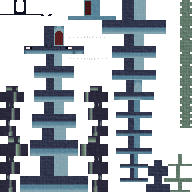
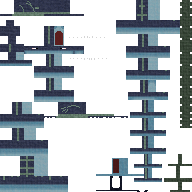
Cetus with less succ

diff --git a/assets/prepared/mobs/icaria_cetus.java b/assets/prepared/mobs/icaria_cetus.java
@@ -1,5 +1,5 @@
-// Made with Blockbench 4.5.2
-// Exported for Minecraft version 1.17 - 1.18 with Mojang mappings
+// Made with Blockbench 4.6.0
+// Exported for Minecraft version 1.17 or later with Mojang mappings
 // Paste this class into your mod and generate all required imports
 
 
@@ -8,17 +8,17 @@ public class icaria_cetus<T extends Entity> extends EntityModel<T> {
 	public static final ModelLayerLocation LAYER_LOCATION = new ModelLayerLocation(new ResourceLocation("modid", "icaria_cetus"), "main");
 	private final ModelPart bone;
 	private final ModelPart bone12;
-	private final ModelPart bone17;
-	private final ModelPart bone18;
 	private final ModelPart bone23;
+	private final ModelPart bone18;
+	private final ModelPart bone19;
 	private final ModelPart bb_main;
 
 	public icaria_cetus(ModelPart root) {
 		this.bone = root.getChild("bone");
 		this.bone12 = root.getChild("bone12");
-		this.bone17 = root.getChild("bone17");
-		this.bone18 = root.getChild("bone18");
 		this.bone23 = root.getChild("bone23");
+		this.bone18 = root.getChild("bone18");
+		this.bone19 = root.getChild("bone19");
 		this.bb_main = root.getChild("bb_main");
 	}
 
@@ -26,7 +26,7 @@ public class icaria_cetus<T extends Entity> extends EntityModel<T> {
 		MeshDefinition meshdefinition = new MeshDefinition();
 		PartDefinition partdefinition = meshdefinition.getRoot();
 
-		PartDefinition bone = partdefinition.addOrReplaceChild("bone", CubeListBuilder.create().texOffs(51, 0).addBox(-3.0F, -7.0F, 0.0F, 6.0F, 7.0F, 10.0F, new CubeDeformation(0.0F)), PartPose.offsetAndRotation(0.0F, 14.2F, 0.0F, 0.0873F, 0.0F, 0.0F));
+		PartDefinition bone = partdefinition.addOrReplaceChild("bone", CubeListBuilder.create().texOffs(58, 0).addBox(-3.0F, -7.0F, 0.0F, 6.0F, 7.0F, 10.0F, new CubeDeformation(0.0F)), PartPose.offsetAndRotation(0.0F, 14.2F, 0.0F, 0.0873F, 0.0F, 0.0F));
 
 		PartDefinition bone24 = bone.addOrReplaceChild("bone24", CubeListBuilder.create(), PartPose.offset(0.0F, -7.0F, 1.6F));
 
@@ -40,25 +40,25 @@ public class icaria_cetus<T extends Entity> extends EntityModel<T> {
 
 		PartDefinition spike_r5 = bone24.addOrReplaceChild("spike_r5", CubeListBuilder.create().texOffs(90, 48).addBox(-1.0F, -2.7F, 0.0F, 2.0F, 3.0F, 1.0F, new CubeDeformation(0.0F)), PartPose.offsetAndRotation(0.0F, 0.0F, 0.0F, -0.3927F, 0.0F, 0.0F));
 
-		PartDefinition bone2 = bone.addOrReplaceChild("bone2", CubeListBuilder.create().texOffs(56, 17).addBox(-2.5F, -6.0F, 0.0F, 5.0F, 6.0F, 6.0F, new CubeDeformation(0.0F)), PartPose.offsetAndRotation(0.0F, -0.7F, 9.0F, 0.0873F, 0.0F, 0.0F));
+		PartDefinition bone2 = bone.addOrReplaceChild("bone2", CubeListBuilder.create().texOffs(63, 17).addBox(-2.5F, -6.0F, 0.0F, 5.0F, 6.0F, 6.0F, new CubeDeformation(0.0F)), PartPose.offsetAndRotation(0.0F, -0.7F, 9.0F, 0.0873F, 0.0F, 0.0F));
 
-		PartDefinition bone3 = bone2.addOrReplaceChild("bone3", CubeListBuilder.create().texOffs(56, 29).addBox(-2.5F, -4.8F, 0.0F, 5.0F, 5.0F, 6.0F, new CubeDeformation(-0.2F)), PartPose.offsetAndRotation(0.0F, -1.2F, 5.0F, 0.0873F, 0.0F, 0.0F));
+		PartDefinition bone3 = bone2.addOrReplaceChild("bone3", CubeListBuilder.create().texOffs(63, 29).addBox(-2.5F, -4.8F, 0.0F, 5.0F, 5.0F, 6.0F, new CubeDeformation(-0.2F)), PartPose.offsetAndRotation(0.0F, -1.2F, 5.0F, 0.0873F, 0.0F, 0.0F));
 
-		PartDefinition bone4 = bone3.addOrReplaceChild("bone4", CubeListBuilder.create().texOffs(57, 40).addBox(-2.0F, -4.0F, -1.0F, 4.0F, 4.0F, 6.0F, new CubeDeformation(0.0F)), PartPose.offsetAndRotation(0.0F, -0.45F, 5.9F, 0.0873F, 0.0F, 0.0F));
+		PartDefinition bone4 = bone3.addOrReplaceChild("bone4", CubeListBuilder.create().texOffs(64, 40).addBox(-2.0F, -4.0F, -1.0F, 4.0F, 4.0F, 6.0F, new CubeDeformation(0.0F)), PartPose.offsetAndRotation(0.0F, -0.45F, 5.9F, 0.0873F, 0.0F, 0.0F));
 
-		PartDefinition bone5 = bone4.addOrReplaceChild("bone5", CubeListBuilder.create().texOffs(58, 50).addBox(-1.5F, 0.0F, 0.0F, 3.0F, 3.0F, 6.0F, new CubeDeformation(0.2F)), PartPose.offsetAndRotation(0.0F, -3.75F, 4.0F, -0.0873F, 0.0F, 0.0F));
+		PartDefinition bone5 = bone4.addOrReplaceChild("bone5", CubeListBuilder.create().texOffs(65, 50).addBox(-1.5F, 0.0F, 0.0F, 3.0F, 3.0F, 6.0F, new CubeDeformation(0.2F)), PartPose.offsetAndRotation(0.0F, -3.75F, 4.0F, -0.0873F, 0.0F, 0.0F));
 
-		PartDefinition bone6 = bone5.addOrReplaceChild("bone6", CubeListBuilder.create().texOffs(58, 59).addBox(-1.5F, -0.35F, 0.0F, 3.0F, 3.0F, 6.0F, new CubeDeformation(0.0F)), PartPose.offsetAndRotation(0.0F, 0.25F, 5.0F, -0.0873F, 0.0F, 0.0F));
+		PartDefinition bone6 = bone5.addOrReplaceChild("bone6", CubeListBuilder.create().texOffs(65, 59).addBox(-1.5F, -0.35F, 0.0F, 3.0F, 3.0F, 6.0F, new CubeDeformation(0.0F)), PartPose.offsetAndRotation(0.0F, 0.25F, 5.0F, -0.0873F, 0.0F, 0.0F));
 
-		PartDefinition bone7 = bone6.addOrReplaceChild("bone7", CubeListBuilder.create().texOffs(58, 68).addBox(-1.5F, -0.45F, -1.0F, 3.0F, 3.0F, 6.0F, new CubeDeformation(-0.2F)), PartPose.offsetAndRotation(0.0F, 0.0F, 5.0F, -0.0873F, 0.0F, 0.0F));
+		PartDefinition bone7 = bone6.addOrReplaceChild("bone7", CubeListBuilder.create().texOffs(65, 68).addBox(-1.5F, -0.45F, -1.0F, 3.0F, 3.0F, 6.0F, new CubeDeformation(-0.2F)), PartPose.offsetAndRotation(0.0F, 0.0F, 5.0F, -0.0873F, 0.0F, 0.0F));
 
-		PartDefinition bone8 = bone7.addOrReplaceChild("bone8", CubeListBuilder.create().texOffs(60, 77).addBox(-1.0F, 0.0F, 0.0F, 2.0F, 2.0F, 5.0F, new CubeDeformation(0.15F)), PartPose.offsetAndRotation(0.0F, 0.0F, 3.85F, -0.0873F, 0.0F, 0.0F));
+		PartDefinition bone8 = bone7.addOrReplaceChild("bone8", CubeListBuilder.create().texOffs(67, 77).addBox(-1.0F, 0.0F, 0.0F, 2.0F, 2.0F, 5.0F, new CubeDeformation(0.15F)), PartPose.offsetAndRotation(0.0F, 0.0F, 3.85F, -0.0873F, 0.0F, 0.0F));
 
-		PartDefinition bone9 = bone8.addOrReplaceChild("bone9", CubeListBuilder.create().texOffs(60, 84).addBox(-1.0F, -0.1F, 0.0F, 2.0F, 2.0F, 5.0F, new CubeDeformation(0.0F)), PartPose.offsetAndRotation(0.0F, 0.0F, 4.15F, -0.0873F, 0.0F, 0.0F));
+		PartDefinition bone9 = bone8.addOrReplaceChild("bone9", CubeListBuilder.create().texOffs(67, 84).addBox(-1.0F, -0.1F, 0.0F, 2.0F, 2.0F, 5.0F, new CubeDeformation(0.0F)), PartPose.offsetAndRotation(0.0F, 0.0F, 4.15F, -0.0873F, 0.0F, 0.0F));
 
-		PartDefinition bone10 = bone9.addOrReplaceChild("bone10", CubeListBuilder.create().texOffs(73, 88).addBox(-1.0F, -2.75F, -1.35F, 2.0F, 4.0F, 4.0F, new CubeDeformation(-0.2F)), PartPose.offsetAndRotation(0.0F, 1.0F, 5.0F, -0.8727F, 0.0F, 0.0F));
+		PartDefinition bone10 = bone9.addOrReplaceChild("bone10", CubeListBuilder.create().texOffs(0, 18).addBox(-1.0F, -2.75F, -1.35F, 2.0F, 4.0F, 4.0F, new CubeDeformation(-0.2F)), PartPose.offsetAndRotation(0.0F, 1.0F, 5.0F, -0.8727F, 0.0F, 0.0F));
 
-		PartDefinition bone11 = bone10.addOrReplaceChild("bone11", CubeListBuilder.create().texOffs(74, 80).addBox(-1.0F, -5.05F, 0.0F, 2.0F, 5.0F, 3.0F, new CubeDeformation(0.02F)), PartPose.offsetAndRotation(0.0F, 1.05F, 2.45F, 0.7854F, 0.0F, 0.0F));
+		PartDefinition bone11 = bone10.addOrReplaceChild("bone11", CubeListBuilder.create().texOffs(0, 10).addBox(-1.0F, -5.05F, 0.0F, 2.0F, 5.0F, 3.0F, new CubeDeformation(0.02F)), PartPose.offsetAndRotation(0.0F, 1.05F, 2.45F, 0.7854F, 0.0F, 0.0F));
 
 		PartDefinition top_fin_r1 = bone11.addOrReplaceChild("top_fin_r1", CubeListBuilder.create().texOffs(84, 77).addBox(-0.5F, -0.1F, 0.0F, 1.0F, 1.0F, 5.0F, new CubeDeformation(0.0F)), PartPose.offsetAndRotation(0.0F, -5.0F, 0.0F, 0.2618F, 0.0F, 0.0F));
 
@@ -66,7 +66,7 @@ public class icaria_cetus<T extends Entity> extends EntityModel<T> {
 
 		PartDefinition middle_fin_r1 = bone11.addOrReplaceChild("middle_fin_r1", CubeListBuilder.create().texOffs(82, 83).addBox(-0.5F, -3.0F, 0.0F, 1.0F, 2.0F, 6.0F, new CubeDeformation(0.0F)), PartPose.offsetAndRotation(0.0F, 0.0F, 0.0F, 0.0873F, 0.0F, 0.0F));
 
-		PartDefinition bone12 = partdefinition.addOrReplaceChild("bone12", CubeListBuilder.create().texOffs(15, 64).addBox(-3.0F, -7.8F, -5.0F, 6.0F, 8.0F, 6.0F, new CubeDeformation(-0.2F)), PartPose.offsetAndRotation(0.0F, 14.8F, -9.0F, -0.0873F, 0.0F, 0.0F));
+		PartDefinition bone12 = partdefinition.addOrReplaceChild("bone12", CubeListBuilder.create().texOffs(0, 64).addBox(-3.0F, -7.8F, -5.0F, 6.0F, 8.0F, 6.0F, new CubeDeformation(-0.2F)), PartPose.offsetAndRotation(0.0F, 14.8F, -9.0F, -0.0873F, 0.0F, 0.0F));
 
 		PartDefinition bone25 = bone12.addOrReplaceChild("bone25", CubeListBuilder.create(), PartPose.offset(0.0F, -7.55F, -4.75F));
 
@@ -74,7 +74,7 @@ public class icaria_cetus<T extends Entity> extends EntityModel<T> {
 
 		PartDefinition spike_r7 = bone25.addOrReplaceChild("spike_r7", CubeListBuilder.create().texOffs(90, 7).addBox(-1.0F, -4.0F, -0.1F, 2.0F, 5.0F, 1.0F, new CubeDeformation(0.0F)), PartPose.offsetAndRotation(0.0F, 0.0F, 0.0F, -0.3927F, 0.0F, 0.0F));
 
-		PartDefinition bone13 = bone12.addOrReplaceChild("bone13", CubeListBuilder.create().texOffs(16, 51).addBox(-2.5F, -7.0F, -5.0F, 5.0F, 7.0F, 6.0F, new CubeDeformation(0.0F)), PartPose.offsetAndRotation(0.0F, -0.3F, -4.8F, -0.0873F, 0.0F, 0.0F));
+		PartDefinition bone13 = bone12.addOrReplaceChild("bone13", CubeListBuilder.create().texOffs(0, 51).addBox(-2.5F, -7.0F, -5.0F, 5.0F, 7.0F, 6.0F, new CubeDeformation(0.0F)), PartPose.offsetAndRotation(0.0F, -0.3F, -4.8F, -0.0873F, 0.0F, 0.0F));
 
 		PartDefinition bone26 = bone13.addOrReplaceChild("bone26", CubeListBuilder.create(), PartPose.offset(0.0F, -7.0F, -5.0F));
 
@@ -89,30 +89,16 @@ public class icaria_cetus<T extends Entity> extends EntityModel<T> {
 		PartDefinition bone16 = bone15.addOrReplaceChild("bone16", CubeListBuilder.create(), PartPose.offsetAndRotation(0.0F, -3.0F, -5.0F, 0.3491F, 0.0F, 0.0F));
 
 		PartDefinition teeth_r1 = bone16.addOrReplaceChild("teeth_r1", CubeListBuilder.create().texOffs(34, 10).addBox(-2.0F, -2.9F, -6.0F, 4.0F, 1.0F, 8.0F, new CubeDeformation(0.2F))
-		.texOffs(34, 0).addBox(-2.0F, -1.5F, -6.0F, 4.0F, 2.0F, 8.0F, new CubeDeformation(0.2F)), PartPose.offsetAndRotation(0.0F, 2.3F, 0.0F, 0.3927F, 0.0F, 0.0F));
+		.texOffs(48, 79).addBox(-2.0F, -1.5F, -6.0F, 4.0F, 1.0F, 8.0F, new CubeDeformation(0.2F)), PartPose.offsetAndRotation(0.0F, 2.3F, 0.0F, 0.3927F, 0.0F, 0.0F));
 
 		PartDefinition teeth_r2 = bone16.addOrReplaceChild("teeth_r2", CubeListBuilder.create().texOffs(32, 19).addBox(-2.5F, 1.0F, -8.0F, 5.0F, 1.0F, 10.0F, new CubeDeformation(0.0F))
 		.texOffs(12, 13).addBox(-2.5F, -3.0F, -8.0F, 5.0F, 4.0F, 10.0F, new CubeDeformation(0.0F)), PartPose.offsetAndRotation(0.0F, 0.0F, 0.0F, 0.1745F, 0.0F, 0.0F));
 
-		PartDefinition head_top_r1 = bone16.addOrReplaceChild("head_top_r1", CubeListBuilder.create().texOffs(0, 0).addBox(-3.0F, -3.6F, -3.0F, 6.0F, 1.0F, 7.0F, new CubeDeformation(0.0F)), PartPose.offsetAndRotation(0.0F, 0.0F, 0.0F, 0.3054F, 0.0F, 0.0F));
+		PartDefinition head_top_r1 = bone16.addOrReplaceChild("head_top_r1", CubeListBuilder.create().texOffs(48, 88).addBox(-3.0F, -3.6F, -3.0F, 6.0F, 1.0F, 7.0F, new CubeDeformation(0.0F)), PartPose.offsetAndRotation(0.0F, 0.0F, 0.0F, 0.3054F, 0.0F, 0.0F));
 
-		PartDefinition bone17 = partdefinition.addOrReplaceChild("bone17", CubeListBuilder.create().texOffs(0, 68).addBox(2.0F, -2.0F, -1.0F, 3.0F, 6.0F, 4.0F, new CubeDeformation(0.0F))
-		.texOffs(40, 68).addBox(-5.0F, -2.0F, -1.0F, 3.0F, 6.0F, 4.0F, new CubeDeformation(0.0F)), PartPose.offsetAndRotation(0.0F, 12.0F, 0.0F, -0.1745F, 0.0F, 0.0F));
+		PartDefinition bone17 = bone16.addOrReplaceChild("bone17", CubeListBuilder.create(), PartPose.offset(0.0F, 0.0F, -8.0F));
 
-		PartDefinition bone19 = bone17.addOrReplaceChild("bone19", CubeListBuilder.create().texOffs(0, 78).addBox(2.5F, 0.0F, 0.0F, 2.0F, 6.0F, 3.0F, new CubeDeformation(0.0F))
-		.texOffs(44, 78).addBox(-4.5F, 0.0F, 0.0F, 2.0F, 6.0F, 3.0F, new CubeDeformation(0.0F)), PartPose.offsetAndRotation(0.0F, 4.0F, -1.0F, 0.7854F, 0.0F, 0.0F));
-
-		PartDefinition bone21 = bone19.addOrReplaceChild("bone21", CubeListBuilder.create().texOffs(0, 87).addBox(3.0F, 0.0F, 0.0F, 1.0F, 6.0F, 3.0F, new CubeDeformation(0.0F))
-		.texOffs(46, 87).addBox(-4.0F, 0.0F, 0.0F, 1.0F, 6.0F, 3.0F, new CubeDeformation(0.0F)), PartPose.offsetAndRotation(0.0F, 6.0F, 0.0F, 0.7854F, 0.0F, 0.0F));
-
-		PartDefinition bone18 = partdefinition.addOrReplaceChild("bone18", CubeListBuilder.create().texOffs(0, 43).addBox(1.0F, -2.0F, -1.0F, 3.0F, 5.0F, 3.0F, new CubeDeformation(0.2F))
-		.texOffs(42, 43).addBox(-4.0F, -2.0F, -1.0F, 3.0F, 5.0F, 3.0F, new CubeDeformation(0.2F)), PartPose.offsetAndRotation(0.0F, 12.0F, -8.0F, -0.1745F, 0.0F, 0.0F));
-
-		PartDefinition bone20 = bone18.addOrReplaceChild("bone20", CubeListBuilder.create().texOffs(0, 51).addBox(1.5F, 0.0F, 0.0F, 2.0F, 6.0F, 3.0F, new CubeDeformation(0.0F))
-		.texOffs(44, 51).addBox(-3.5F, 0.0F, 0.0F, 2.0F, 6.0F, 3.0F, new CubeDeformation(0.0F)), PartPose.offsetAndRotation(0.0F, 3.2F, -1.2F, 0.7854F, 0.0F, 0.0F));
-
-		PartDefinition bone22 = bone20.addOrReplaceChild("bone22", CubeListBuilder.create().texOffs(0, 60).addBox(2.0F, 0.0F, 0.0F, 1.0F, 5.0F, 3.0F, new CubeDeformation(0.0F))
-		.texOffs(46, 60).addBox(-3.0F, 0.0F, 0.0F, 1.0F, 5.0F, 3.0F, new CubeDeformation(0.0F)), PartPose.offsetAndRotation(0.0F, 6.0F, 0.0F, 0.7854F, 0.0F, 0.0F));
+		PartDefinition cube_r1 = bone17.addOrReplaceChild("cube_r1", CubeListBuilder.create().texOffs(1, 27).addBox(-2.0F, -1.0F, -3.0F, 4.0F, 3.0F, 3.0F, new CubeDeformation(0.0F)), PartPose.offsetAndRotation(0.0F, 0.0F, 0.0F, 0.2618F, 0.0F, 0.0F));
 
 		PartDefinition bone23 = partdefinition.addOrReplaceChild("bone23", CubeListBuilder.create(), PartPose.offset(0.0F, 7.0F, -9.0F));
 
@@ -126,7 +112,19 @@ public class icaria_cetus<T extends Entity> extends EntityModel<T> {
 
 		PartDefinition spike_r14 = bone23.addOrReplaceChild("spike_r14", CubeListBuilder.create().texOffs(90, 19).addBox(-1.0F, -5.0F, 0.0F, 2.0F, 6.0F, 1.0F, new CubeDeformation(0.0F)), PartPose.offsetAndRotation(0.0F, 0.0F, 0.0F, -0.3927F, 0.0F, 0.0F));
 
-		PartDefinition bb_main = partdefinition.addOrReplaceChild("bb_main", CubeListBuilder.create().texOffs(10, 78).addBox(-3.5F, -17.0F, -9.0F, 7.0F, 8.0F, 10.0F, new CubeDeformation(0.0F)), PartPose.offset(0.0F, 24.0F, 0.0F));
+		PartDefinition bone18 = partdefinition.addOrReplaceChild("bone18", CubeListBuilder.create().texOffs(0, 0).addBox(-12.0F, -1.0F, -1.0F, 14.0F, 1.0F, 7.0F, new CubeDeformation(0.5F)), PartPose.offsetAndRotation(-3.5F, 9.0F, -7.0F, 0.0F, -0.2618F, 0.0F));
+
+		PartDefinition bone20 = bone18.addOrReplaceChild("bone20", CubeListBuilder.create(), PartPose.offset(-12.0F, -1.0F, 0.0F));
+
+		PartDefinition wing_right_r1 = bone20.addOrReplaceChild("wing_right_r1", CubeListBuilder.create().texOffs(22, 51).addBox(-14.0F, -0.5F, 0.0F, 14.0F, 1.0F, 7.0F, new CubeDeformation(0.4F)), PartPose.offsetAndRotation(0.0F, 1.0F, -1.0F, -0.0436F, 0.3054F, -0.1745F));
+
+		PartDefinition bone19 = partdefinition.addOrReplaceChild("bone19", CubeListBuilder.create().texOffs(0, 0).mirror().addBox(-2.0F, -1.0F, -1.0F, 14.0F, 1.0F, 7.0F, new CubeDeformation(0.5F)).mirror(false), PartPose.offsetAndRotation(3.5F, 9.0F, -7.0F, 0.0F, 0.2618F, 0.0F));
+
+		PartDefinition bone21 = bone19.addOrReplaceChild("bone21", CubeListBuilder.create(), PartPose.offset(12.0F, -1.0F, 0.0F));
+
+		PartDefinition wing_right_r2 = bone21.addOrReplaceChild("wing_right_r2", CubeListBuilder.create().texOffs(22, 51).mirror().addBox(0.0F, -0.5F, 0.0F, 14.0F, 1.0F, 7.0F, new CubeDeformation(0.4F)).mirror(false), PartPose.offsetAndRotation(0.0F, 1.0F, -1.0F, -0.0436F, -0.3054F, 0.1745F));
+
+		PartDefinition bb_main = partdefinition.addOrReplaceChild("bb_main", CubeListBuilder.create().texOffs(0, 78).addBox(-3.5F, -17.0F, -9.0F, 7.0F, 8.0F, 10.0F, new CubeDeformation(0.0F)), PartPose.offset(0.0F, 24.0F, 0.0F));
 
 		return LayerDefinition.create(meshdefinition, 96, 96);
 	}
@@ -140,9 +138,9 @@ public class icaria_cetus<T extends Entity> extends EntityModel<T> {
 	public void renderToBuffer(PoseStack poseStack, VertexConsumer vertexConsumer, int packedLight, int packedOverlay, float red, float green, float blue, float alpha) {
 		bone.render(poseStack, vertexConsumer, packedLight, packedOverlay, red, green, blue, alpha);
 		bone12.render(poseStack, vertexConsumer, packedLight, packedOverlay, red, green, blue, alpha);
-		bone17.render(poseStack, vertexConsumer, packedLight, packedOverlay, red, green, blue, alpha);
-		bone18.render(poseStack, vertexConsumer, packedLight, packedOverlay, red, green, blue, alpha);
 		bone23.render(poseStack, vertexConsumer, packedLight, packedOverlay, red, green, blue, alpha);
+		bone18.render(poseStack, vertexConsumer, packedLight, packedOverlay, red, green, blue, alpha);
+		bone19.render(poseStack, vertexConsumer, packedLight, packedOverlay, red, green, blue, alpha);
 		bb_main.render(poseStack, vertexConsumer, packedLight, packedOverlay, red, green, blue, alpha);
 	}
 }
